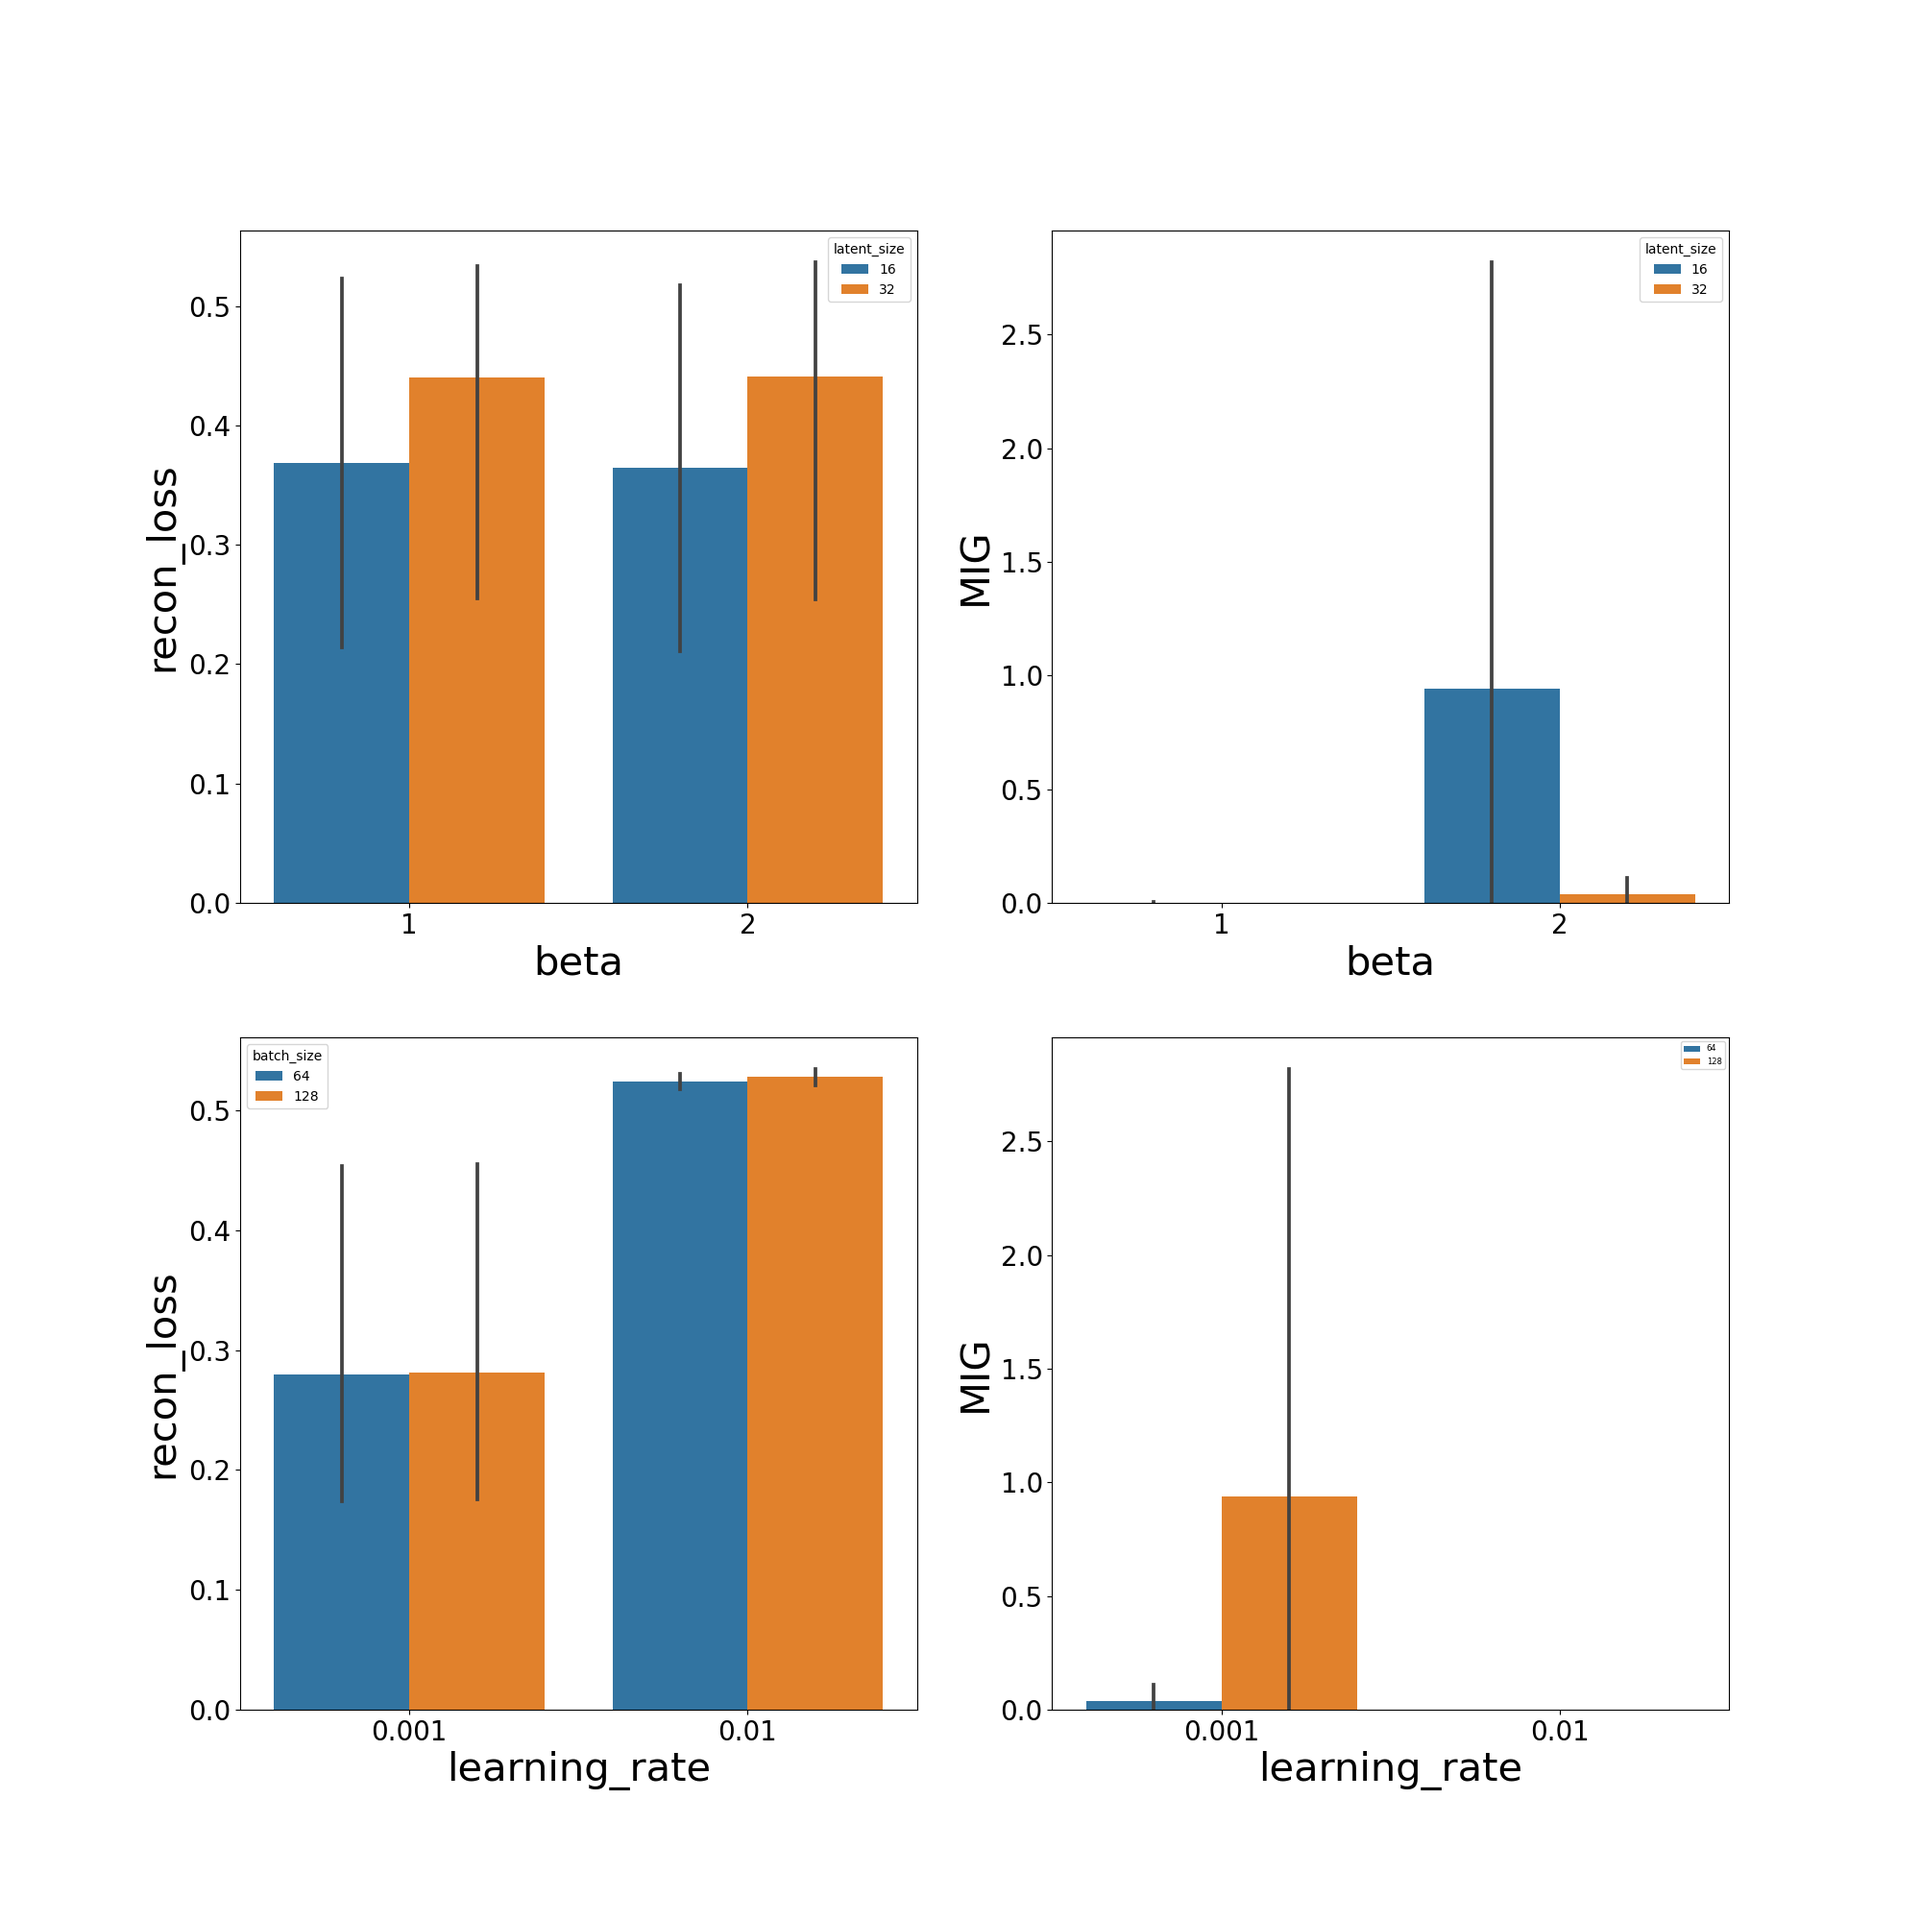
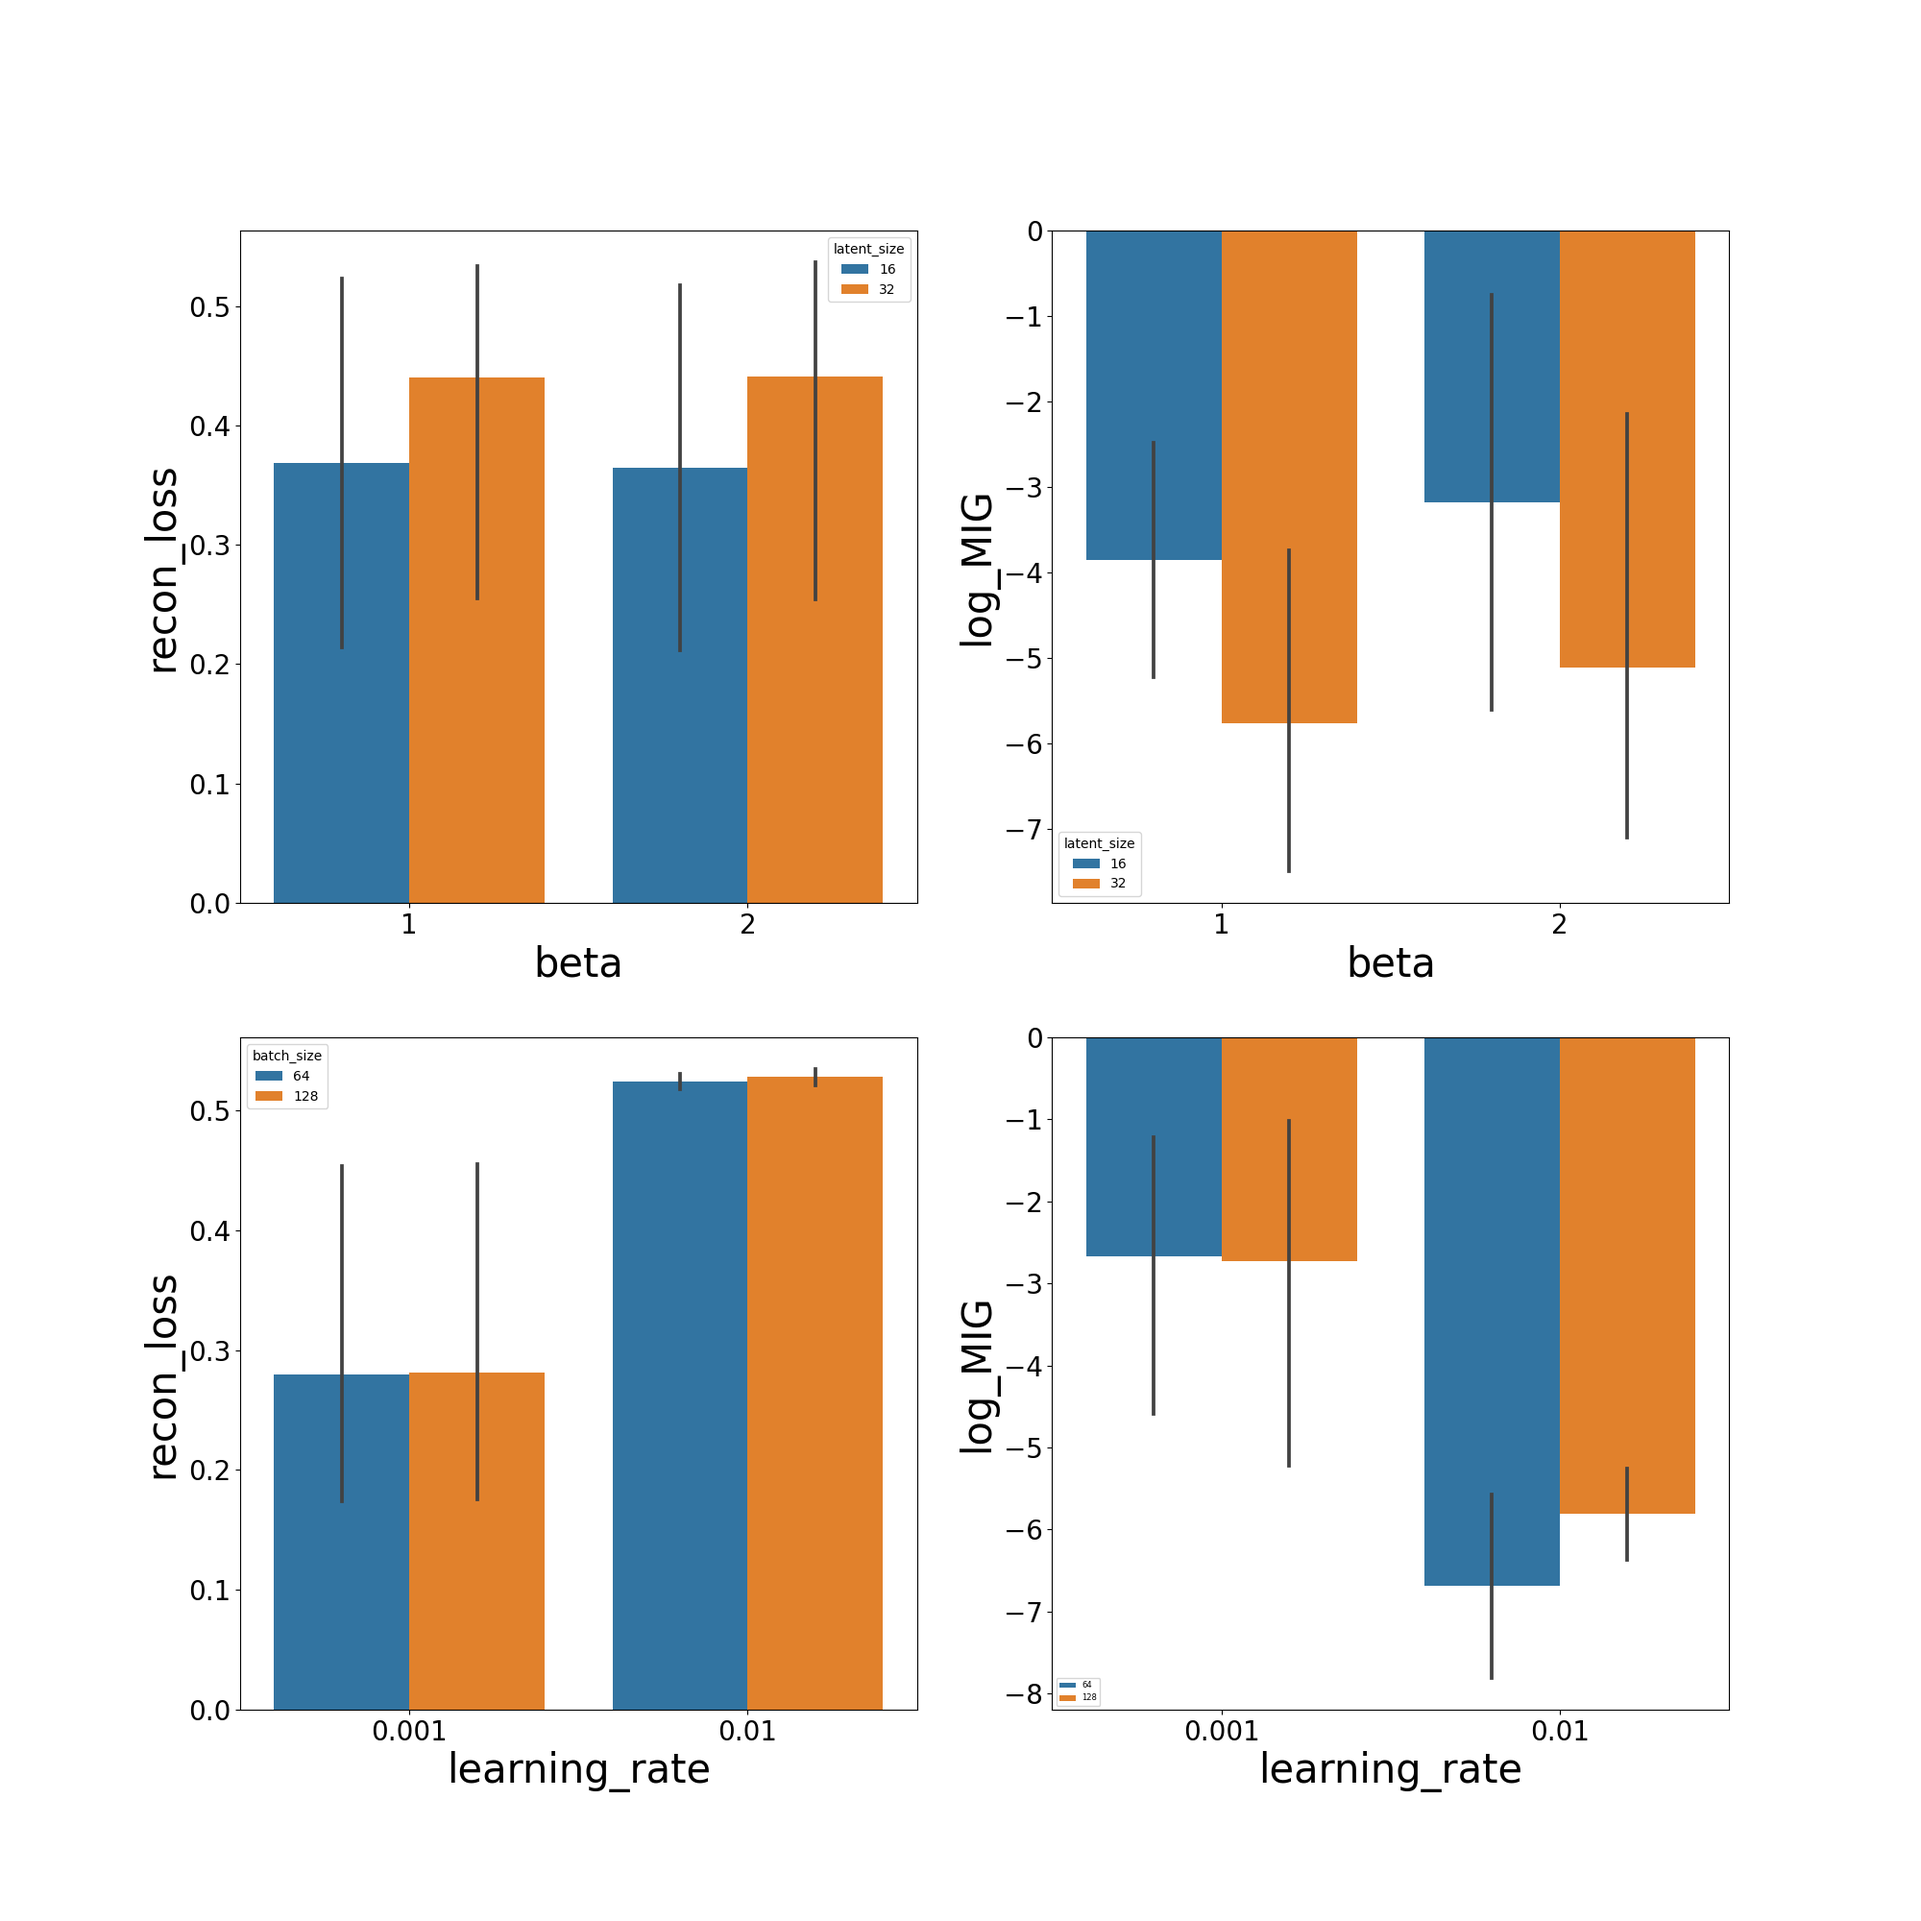
scatter added

diff --git a/analysis/plot_grid_search.py b/analysis/plot_grid_search.py
@@ -21,7 +21,7 @@ df = pd.DataFrame()
 for beta, batch_size, latent_size, learning_rate in \
         list(itertools.product(BETAS, BATCH_SIZES,
                                LATENT_SIZES, LEARNING_RATES)):
-    model_name=f'betaB_dletters_beta_{beta}_latent_size_{latent_size}_batch_size_{batch_size}_learning_rate_{learning_rate}'
+    model_name = f'betaB_dletters_beta_{beta}_latent_size_{latent_size}_batch_size_{batch_size}_learning_rate_{learning_rate}'
     fn_log = 'eval.pkl'
     fn_log = os.path.join(path2logs, model_name, fn_log)
     print(f'Loading {fn_log}')
@@ -34,7 +34,9 @@ for beta, batch_size, latent_size, learning_rate in \
                    'batch_size':batch_size,
                    'learning_rate':learning_rate,
                    'recon_loss':losses['recon_loss'],
+                   'neg_recon_loss':-losses['recon_loss'],
                    'MIG':metrics['MIG'],
+                   'log_MIG':np.log10(metrics['MIG']),
                    'model_name':model_name,
                    'model_name_short':f'b_{beta}_ls_{latent_size}_bs_{batch_size}_lr_{learning_rate}'},
                     ignore_index=True)
@@ -52,9 +54,9 @@ print(f'Best model with minimal train loss is: \n {df.iloc[IX_min]}')
 # PLOT
 fig, axs = plt.subplots(2, 2, figsize=(20, 20))
 sns.barplot(data=df, x='beta', y='recon_loss', hue='latent_size', ax=axs[0, 0])
-sns.barplot(data=df, x='beta', y='MIG', hue='latent_size', ax=axs[0, 1])
+sns.barplot(data=df, x='beta', y='log_MIG', hue='latent_size', ax=axs[0, 1])
 sns.barplot(data=df, x='learning_rate', y='recon_loss', hue='batch_size', ax=axs[1, 0])
-sns.barplot(data=df, x='learning_rate', y='MIG', hue='batch_size', ax=axs[1, 1])
+sns.barplot(data=df, x='learning_rate', y='log_MIG', hue='batch_size', ax=axs[1, 1])
 for ax in axs.flatten():
     ax.xaxis.label.set_size(30)
     ax.yaxis.label.set_size(30)
@@ -68,7 +70,7 @@ print(f'Figure saved to: {fn_fig}')
 # PLOT
 fig, axs = plt.subplots(2, 1, figsize=(20, 30))
 sns.barplot(data=df, x='model_name_short', y='recon_loss', ax=axs[0])
-sns.barplot(data=df, x='model_name_short', y='MIG', ax=axs[1])
+sns.barplot(data=df, x='model_name_short', y='log_MIG', ax=axs[1])
 for ax in axs:
     ax.xaxis.label.set_size(30)
     ax.yaxis.label.set_size(30)
@@ -77,6 +79,22 @@ for ax in axs:
     ax.legend().remove()
 plt.subplots_adjust(bottom=0.15, hspace=0.5)
 fn_fig = os.path.join(path2figures, 'grid_search_results_all_models.png')
+fig.savefig(fn_fig)
+plt.close(fig)
+print(f'Figure saved to: {fn_fig}')
+
+# SCATTER
+fig, ax = plt.subplots(1, 1, figsize=(20, 20))
+sns.scatterplot(data=df, x='neg_recon_loss', y='log_MIG')
+ax.xaxis.label.set_size(30)
+ax.yaxis.label.set_size(30)
+ax.tick_params(labelsize=20)
+ax.legend().remove()
+for i, row in df.iterrows():
+    ax.text(row['neg_recon_loss'], row['log_MIG'],
+            row['model_name_short'], fontsize=20)
+plt.subplots_adjust(right=0.85)
+fn_fig = os.path.join(path2figures, 'grid_search_results_scatter.png')
 fig.savefig(fn_fig)
 plt.close(fig)
 print(f'Figure saved to: {fn_fig}')
